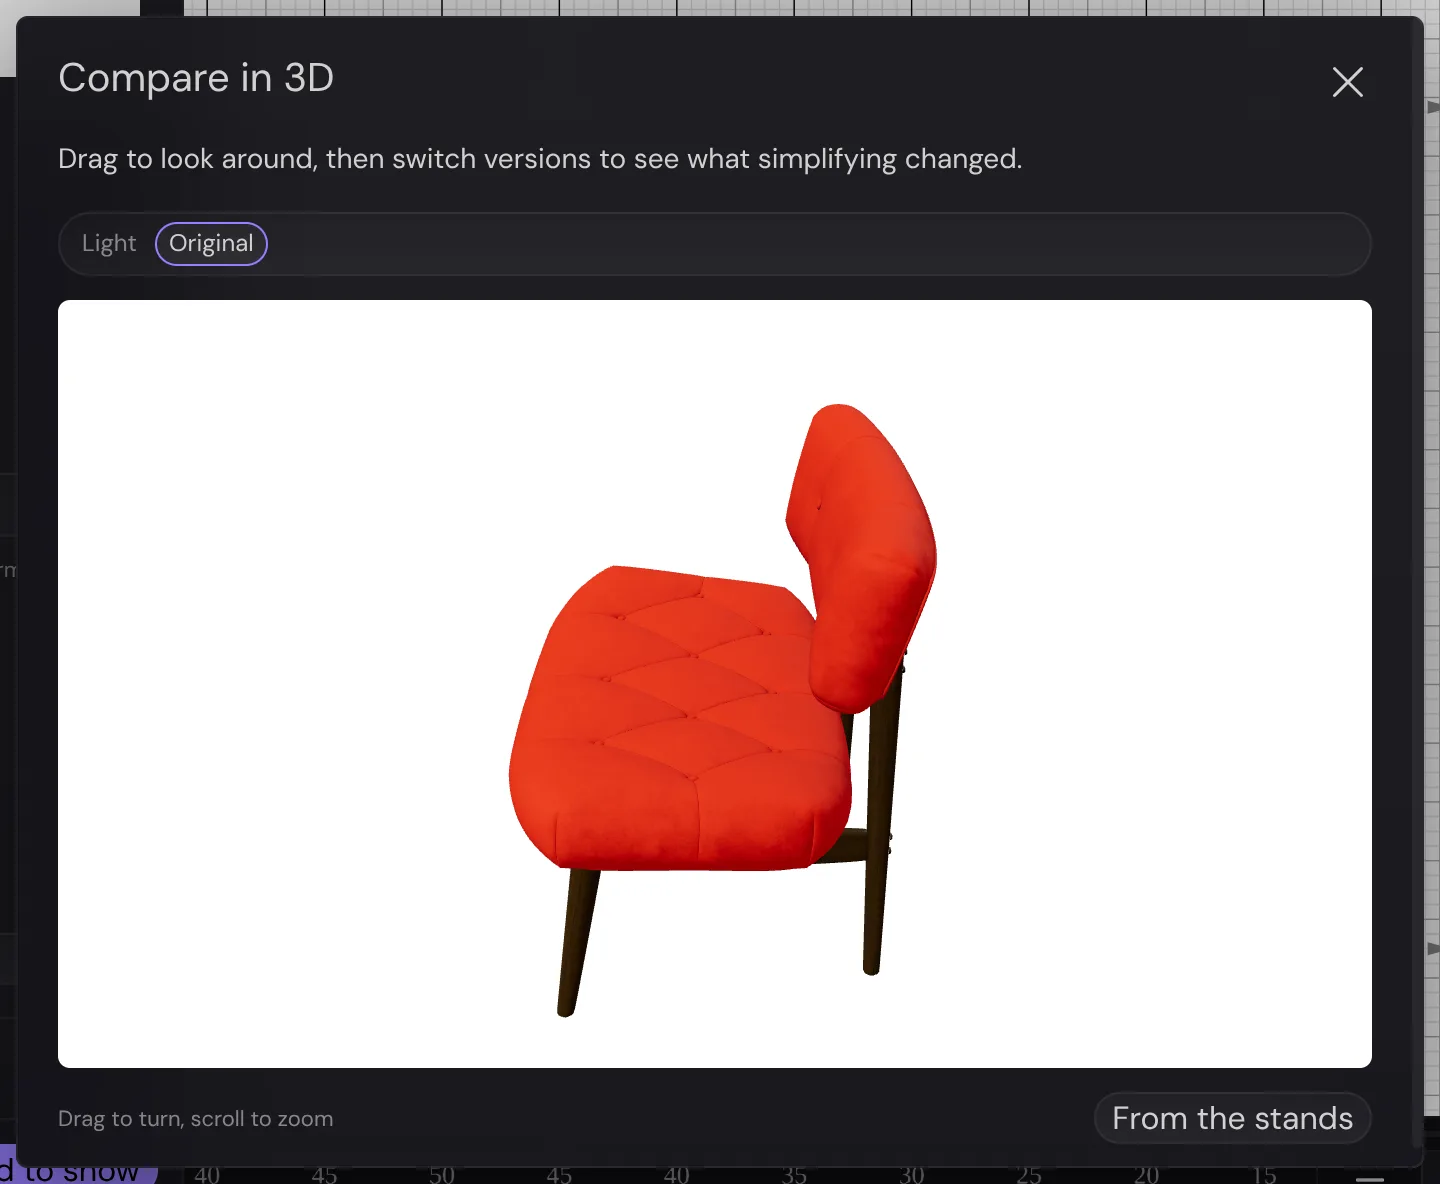
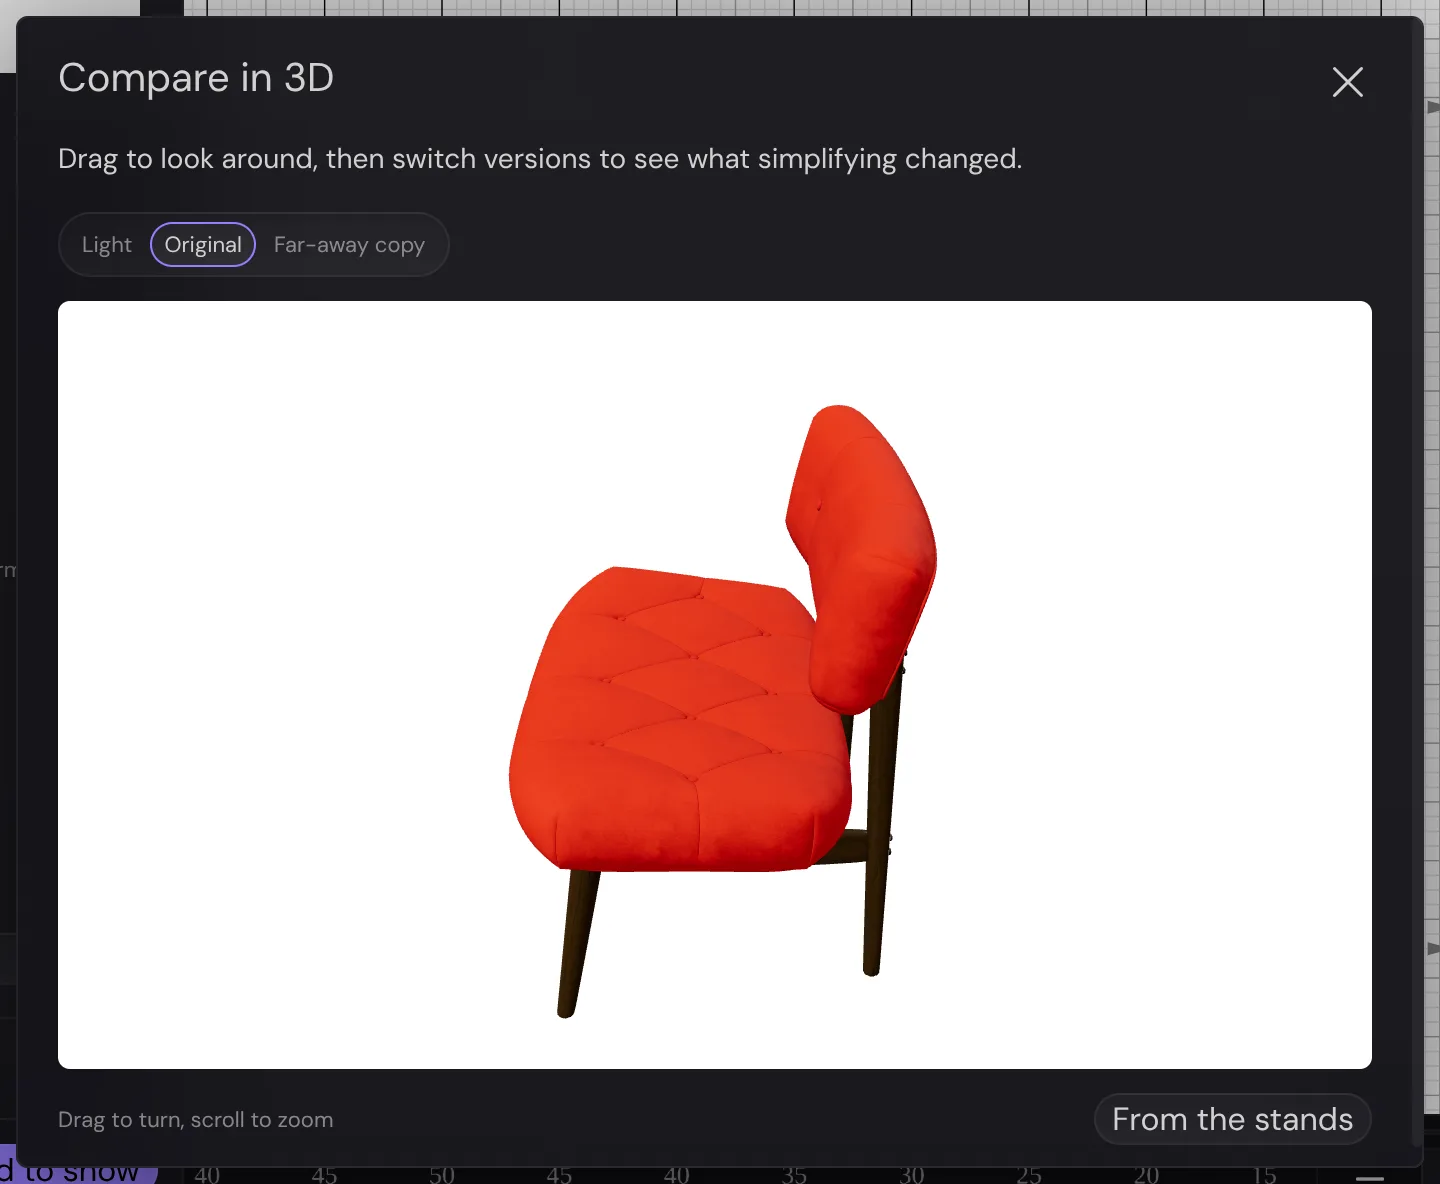
fix(props): imported props keep their detail as far out as their size allows (#1180)
- The 3D View switches a prop to its far copy at a distance that grows
  with its drawn size: a 1.5 m prop at about 30 m as before, a 4.5 m car
  at about 90 m
- The far copy is simplified only as far as keeps its shape (an error
  limit of 5% of a part's size), even past its 2,000-triangle target:
  wider limits caved cars and props in
- Compare in 3D offers the far copy beside the chosen level

diff --git a/apps/desktop/src/showAssets/modelImport/pipeline.ts b/apps/desktop/src/showAssets/modelImport/pipeline.ts
@@ -53,6 +53,7 @@ import {
     DETAILED_TRIANGLE_CAP,
     DISTANT_SIMPLIFY_FROM,
     DISTANT_TEXTURE_CAP,
+    DISTANT_SIMPLIFY_ERRORS,
     DISTANT_TRIANGLE_CAP,
     DISTANT_TRIANGLE_RATIO,
     FLAT_RATIO,
@@ -619,12 +620,13 @@ async function makeLight(
 
 /**
  * meshoptimizer's simplifier toward `target` triangles: the ratio first, then a wider error
- * limit until it gets there (spike #995). Returns the triangles left.
+ * limit until it gets there (spike #995), up to the last of `errors`. Returns the triangles left.
  */
 async function simplifyTo(
     doc: Document,
     scene: Scene,
     target: number,
+    errors: readonly number[] = [0.01, 0.05, 0.2, 1],
 ): Promise<number> {
     await MeshoptSimplifier.ready;
     await doc.transform(weld({ overwrite: false }));
@@ -640,7 +642,7 @@ async function simplifyTo(
     );
     const start = sceneTriangles(scene);
     let now = start;
-    for (const error of [0.01, 0.05, 0.2, 1]) {
+    for (const error of errors) {
         if (now <= target) break;
         const ratio = Math.min(1, (target / now) * 0.95);
         for (const mesh of doc.getRoot().listMeshes())
@@ -735,7 +737,10 @@ async function shrinkTextures(
 const textureName = (texture: Texture, index: number) =>
     texture.getName() || texture.getURI() || `texture ${index + 1}`;
 
-/** The distant version: simplified hard, with small textures. */
+/**
+ * The distant version: simplified as far as keeps its shape, with small textures. It may keep
+ * more than its target: a far copy that caves in looks broken from the stands (#1180).
+ */
 async function makeDistant(
     io: WebIO,
     doc: Document,
@@ -752,7 +757,7 @@ async function makeDistant(
                 Math.floor(triangles * DISTANT_TRIANGLE_RATIO),
             ),
         );
-        await simplifyTo(distant, scene, target);
+        await simplifyTo(distant, scene, target, DISTANT_SIMPLIFY_ERRORS);
     }
     await shrinkTextures(distant, DISTANT_TEXTURE_CAP, images, null);
     await distant.transform(

diff --git a/apps/desktop/src/view3d/core/pit/pitModels.ts b/apps/desktop/src/view3d/core/pit/pitModels.ts
@@ -170,19 +170,31 @@ export const PIT_NEAR_M = 30;
 export const PIT_FAR_M = 38;
 
 /**
+ * How far out (m) per meter of its size a model keeps its detail: the pit's own models, about
+ * 1.5 m across, switch at {@link PIT_NEAR_M}. A larger imported model (a 4.5 m car, a scaffold)
+ * stays as large on screen for longer, so it keeps its detail as far out as one that size
+ * would (#1180).
+ */
+export const PIT_NEAR_PER_M = 20;
+
+/**
  * Whether a model at (`x`, `z`) draws in detail, from its distance to the camera at about
- * keyboard height and whether it did last frame (`was`): the gap between {@link PIT_NEAR_M} and
- * {@link PIT_FAR_M} keeps one at the edge from flickering, as instruments do (`hornSet.ts`).
+ * keyboard height and whether it did last frame (`was`): the gap between the near and far
+ * distances keeps one at the edge from flickering, as instruments do (`hornSet.ts`). Both grow
+ * with the model's drawn size (`sizeM`, its longest side) past the pit's own models'.
  */
 export function isNearPitItem(
     x: number,
     z: number,
     camera: readonly [number, number, number],
     was: boolean | undefined,
+    sizeM = 0,
 ): boolean {
+    const near = Math.max(PIT_NEAR_M, sizeM * PIT_NEAR_PER_M);
+    const far = near * (PIT_FAR_M / PIT_NEAR_M);
     const d = Math.hypot(x - camera[0], camera[1] - 1, z - camera[2]);
-    if (was === undefined) return d < (PIT_NEAR_M + PIT_FAR_M) / 2;
-    return was ? d < PIT_FAR_M : d < PIT_NEAR_M;
+    if (was === undefined) return d < (near + far) / 2;
+    return was ? d < far : d < near;
 }
 
 /**

diff --git a/apps/desktop/src/view3d/core/pit/__test__/pitModels.test.ts b/apps/desktop/src/view3d/core/pit/__test__/pitModels.test.ts
@@ -3,6 +3,7 @@ import {
     PIT_MANIFEST,
     PIT_NEAR_M,
     PIT_FAR_M,
+    PIT_NEAR_PER_M,
     hidesVenuePodium,
     isNearPitItem,
     isPodiumModel,
@@ -236,6 +237,19 @@ describe("isNearPitItem", () => {
         const between = (PIT_NEAR_M + PIT_FAR_M) / 2;
         expect(isNearPitItem(between, 0, camera, true)).toBe(true);
         expect(isNearPitItem(between, 0, camera, false)).toBe(false);
+    });
+
+    it("keeps a larger model's detail farther out, as large on screen", () => {
+        // A 4.5 m car at 60 m looks as large as a 1.5 m drum at 20 m
+        expect(isNearPitItem(60, 0, camera, undefined)).toBe(false);
+        expect(isNearPitItem(60, 0, camera, undefined, 4.5)).toBe(true);
+        expect(
+            isNearPitItem(4.5 * PIT_NEAR_PER_M * 1.5, 0, camera, true, 4.5),
+        ).toBe(false);
+        // Small ones switch where the pit's own models do
+        expect(isNearPitItem(PIT_NEAR_M + 1, 0, camera, false, 0.5)).toBe(
+            false,
+        );
     });
 });
 

diff --git a/apps/desktop/src/components/items/modelImport/DetailChoice.tsx b/apps/desktop/src/components/items/modelImport/DetailChoice.tsx
@@ -57,8 +57,15 @@ export default function DetailChoice({
 
     const label = (l: DetailLevel) => t(`props.import.detail.levels.${l}`);
     const before = session.before;
-    const versions: CompareVersion[] =
-        row.applied === "original"
+    // What the 3D View draws once the camera is far from the prop (#1180)
+    const farCopy: CompareVersion = {
+        key: "far",
+        label: t("props.import.compare.farCopy"),
+        bytes: model.parts.distant,
+        testId: "model-compare-far",
+    };
+    const versions: CompareVersion[] = [
+        ...(row.applied === "original"
             ? [
                   {
                       key: "chosen",
@@ -87,7 +94,9 @@ export default function DetailChoice({
                       failed: before?.status === "failed",
                       testId: "model-compare-other",
                   },
-              ];
+              ]),
+        farCopy,
+    ];
 
     return (
         <section

diff --git a/apps/desktop/src/showAssets/modelImport/rules.ts b/apps/desktop/src/showAssets/modelImport/rules.ts
@@ -35,8 +35,16 @@ export const PERFORMER_TRIANGLES = 4_000;
 /** Longest texture edge of a prop model, in pixels (D-19: prop textures 1024) */
 export const TEXTURE_CAP = 1024;
 
-/** The distant version, drawn beyond about 30 m: at most this many triangles… */
+/**
+ * The distant version, drawn beyond about 30 m (farther for a larger model, #1180): simplified
+ * toward this many triangles…
+ */
 export const DISTANT_TRIANGLE_CAP = 2_000;
+/**
+ * …but never past these error limits, each a share of a part's size: from where the far copy
+ * draws, 5% of a model is a few pixels, and wider limits cave its shape in (#1180)
+ */
+export const DISTANT_SIMPLIFY_ERRORS = [0.01, 0.02, 0.05];
 /** …and at most this share of the detailed model's */
 export const DISTANT_TRIANGLE_RATIO = 0.25;
 /** …unless it has fewer than this many, when it keeps them all */

diff --git a/apps/desktop/src/view3d/window/props/PitModels.tsx b/apps/desktop/src/view3d/window/props/PitModels.tsx
@@ -372,6 +372,8 @@ export default function PitModels({ fieldProperties }: PitModelsProps) {
                             scratch.z,
                             cam,
                             g.near.get(track.marcherId),
+                            // An imported model's drawn size; the pit's own are its default
+                            g.sizeM ? Math.max(at.width, at.depth) : 0,
                         );
                         g.near.set(track.marcherId, near);
                         tier = near ? 0 : 1;
